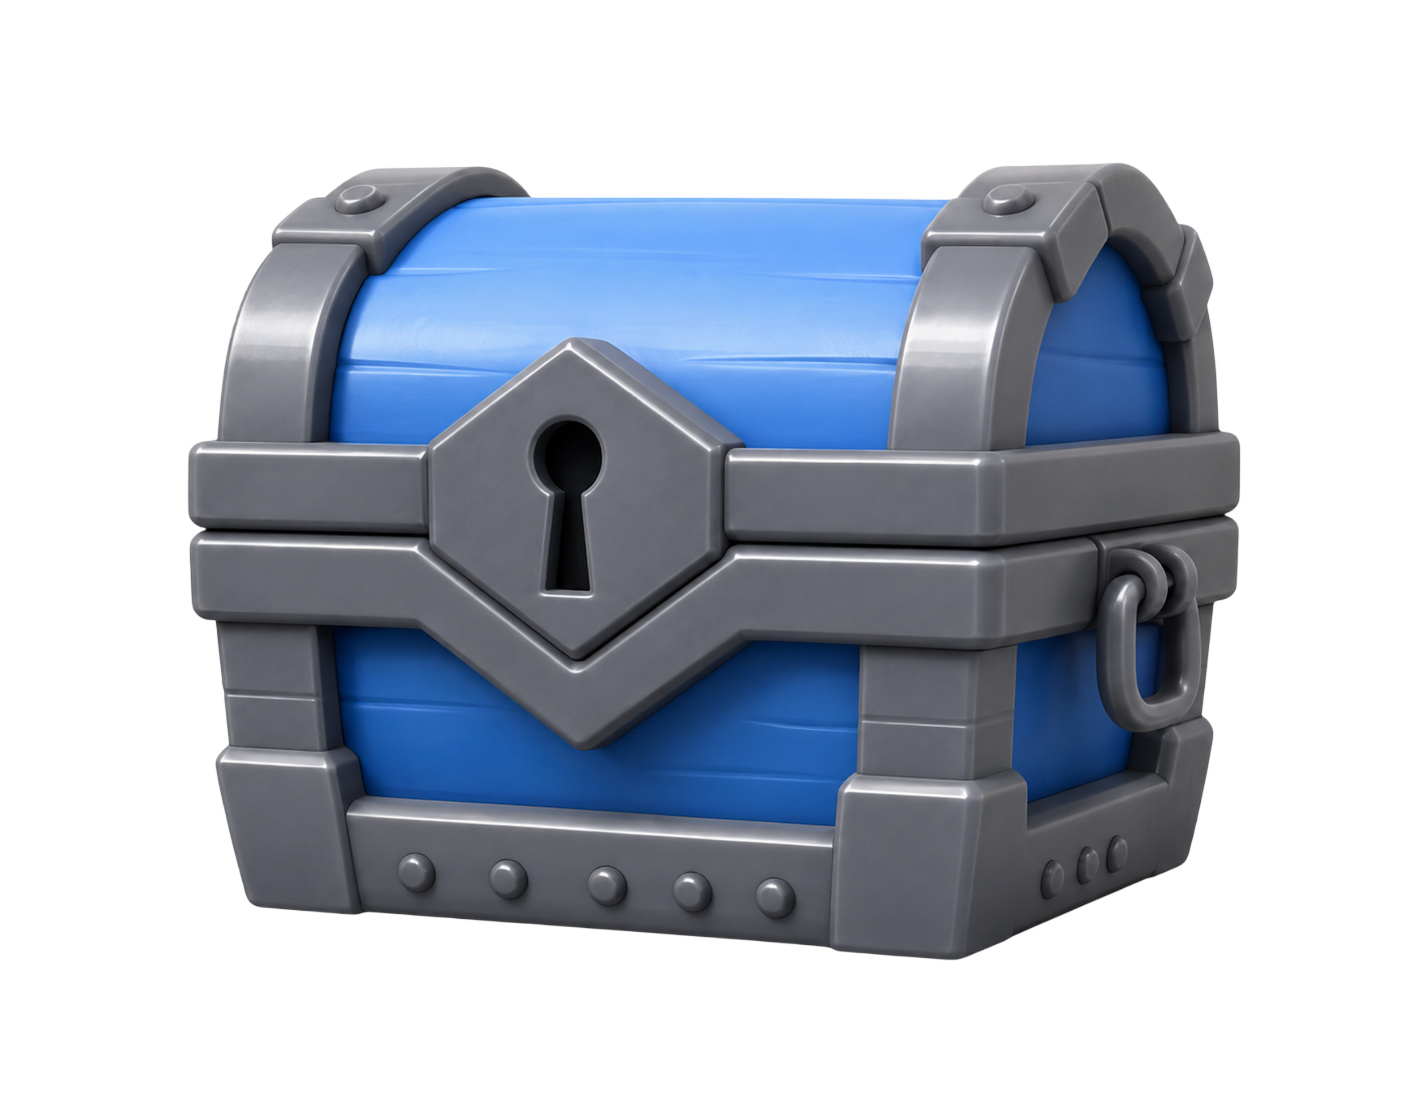
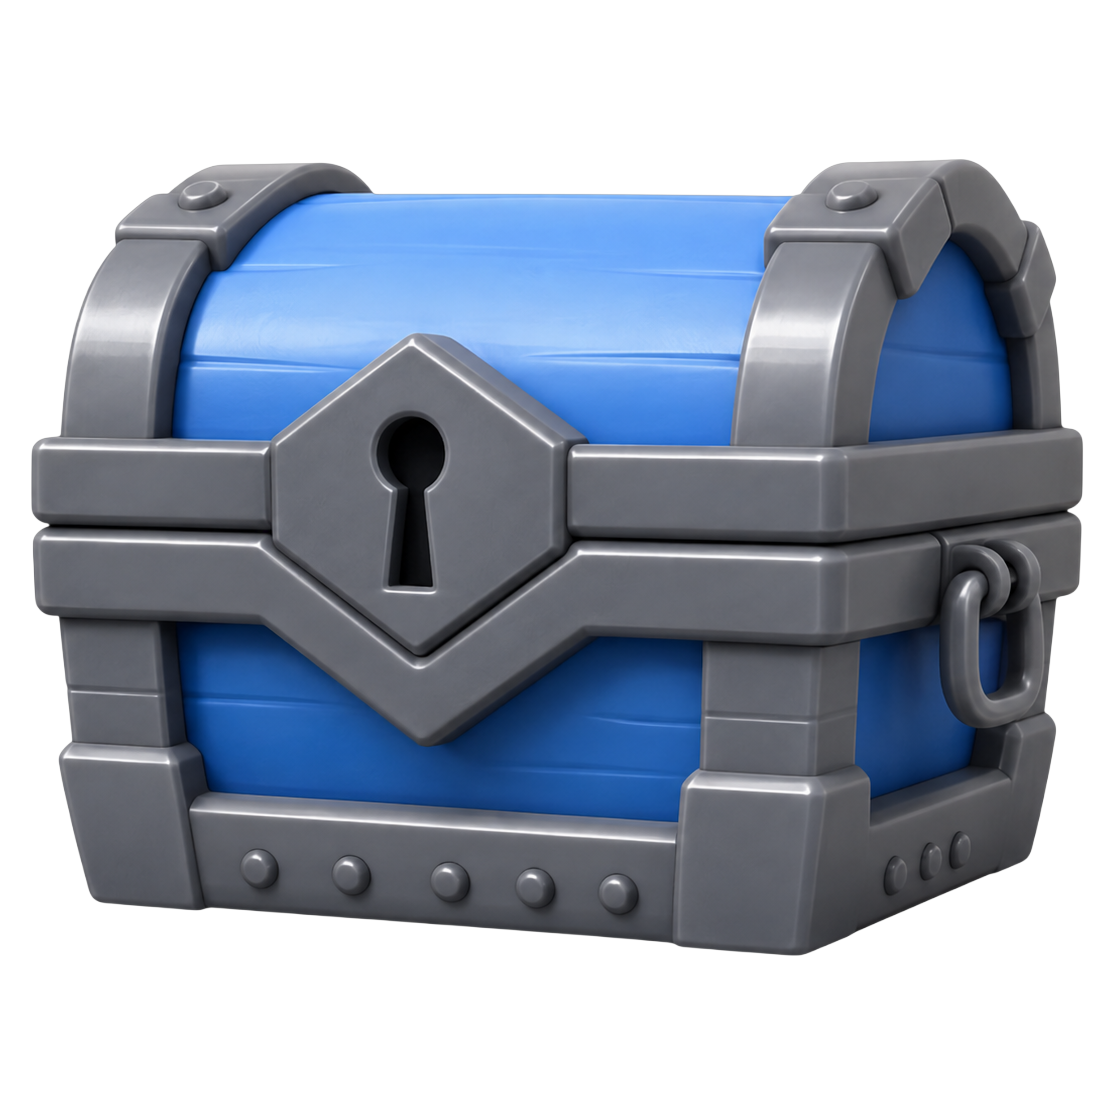
Fix battle pass chest art and add rarity sparkle effects
Chest PNGs were cropped tight to the chest and padded onto a uniform
square canvas (they previously had inconsistent transparent margins,
making object-contain render them at very different sizes/off-center).
Bumped image-to-tile ratio so chests fill their slot instead of
floating in empty space.

Replaced the flat filled-square rarity background (gold/purple/crown)
with a tinted border + soft shadow and small animated sparkle
particles scattered around the chest, colored and scaled by rarity.

diff --git a/client/src/pages/battlepass.tsx b/client/src/pages/battlepass.tsx
@@ -32,22 +32,79 @@ const CHEST_IMAGES: Record<BattlePassChestTier, string> = {
   crown: chestCrown,
 };
 
-// Only the top 3 chest tiers get the glowing-background treatment (matches the art itself --
-// wood/silver render on a plain background, gold/purple/crown render on a dark radial glow).
-const CHEST_GLOW: Partial<Record<BattlePassChestTier, { boxShadow: string; bgStyle: string }>> = {
+// Rarity treatment: a soft border/shadow tint (no more flat filled background square) plus a
+// handful of tiny animated sparkles scattered behind the chest, colored per tier. Wood gets
+// nothing (baseline chest); silver a faint hint; gold/purple/crown progressively more and
+// brighter, so the "how special is this" read comes from motion+color, not a filled shape.
+const CHEST_RARITY_STYLE: Partial<Record<BattlePassChestTier, { border: string; boxShadow: string }>> = {
+  silver: {
+    border: 'border-sky-400/30',
+    boxShadow: '0 0 16px rgba(125, 211, 252, 0.15)',
+  },
   gold: {
-    boxShadow: '0 0 30px rgba(255, 215, 0, 0.4), inset 0 0 20px rgba(255, 215, 0, 0.1)',
-    bgStyle: 'bg-gradient-to-br from-yellow-900/40 to-orange-900/40 border-yellow-600/50',
+    border: 'border-yellow-500/40',
+    boxShadow: '0 0 22px rgba(250, 204, 21, 0.25)',
   },
   purple: {
-    boxShadow: '0 0 30px rgba(147, 51, 234, 0.4), inset 0 0 20px rgba(147, 51, 234, 0.1)',
-    bgStyle: 'bg-gradient-to-br from-purple-900/40 to-pink-900/40 border-purple-600/50',
+    border: 'border-purple-500/45',
+    boxShadow: '0 0 24px rgba(192, 132, 252, 0.3)',
   },
   crown: {
-    boxShadow: '0 0 30px rgba(239, 68, 68, 0.45), inset 0 0 20px rgba(255, 215, 0, 0.15)',
-    bgStyle: 'bg-gradient-to-br from-red-900/40 to-yellow-900/40 border-red-600/50',
+    border: 'border-red-500/45',
+    boxShadow: '0 0 26px rgba(248, 113, 113, 0.35)',
   },
 };
+
+const CHEST_SPARKLE_CONFIG: Partial<Record<BattlePassChestTier, { count: number; colors: string[] }>> = {
+  silver: { count: 2, colors: ['#bae6fd'] },
+  gold: { count: 3, colors: ['#fde68a', '#fbbf24'] },
+  purple: { count: 4, colors: ['#e9d5ff', '#c084fc'] },
+  crown: { count: 6, colors: ['#fecaca', '#fde68a', '#f87171'] },
+};
+
+// Fixed spread around the tile's edges/corners so particles never overlap the chest itself.
+const SPARKLE_SLOTS = [
+  { top: '6%', left: '14%' },
+  { top: '12%', left: '80%' },
+  { top: '82%', left: '10%' },
+  { top: '86%', left: '78%' },
+  { top: '46%', left: '2%' },
+  { top: '42%', left: '92%' },
+];
+
+// `seed` (the pass tier number) staggers each particle's animation-delay so tiles of the same
+// rarity don't all twinkle in lockstep. Pure CSS animation (transform/opacity only) -- cheap
+// enough to run on the ~80 tiles mounted at once in the full 50-tier grid.
+function ChestSparkles({ chestTier, seed }: { chestTier: BattlePassChestTier; seed: number }) {
+  const config = CHEST_SPARKLE_CONFIG[chestTier];
+  if (!config) return null;
+  return (
+    <div className="absolute inset-0 pointer-events-none overflow-hidden rounded-3xl">
+      {SPARKLE_SLOTS.slice(0, config.count).map((pos, i) => {
+        const size = 7 + (i % 3) * 2;
+        return (
+          <span
+            key={i}
+            className="absolute"
+            style={{
+              top: pos.top,
+              left: pos.left,
+              width: size,
+              height: size,
+              color: config.colors[i % config.colors.length],
+              animation: `chestSparkleTwinkle ${1.6 + (i % 3) * 0.3}s ease-in-out infinite`,
+              animationDelay: `${((seed * (i + 7) * 37) % 20) / 10}s`,
+            }}
+          >
+            <svg viewBox="0 0 24 24" fill="currentColor" className="w-full h-full">
+              <path d="M12 0 L14.2 9.8 L24 12 L14.2 14.2 L12 24 L9.8 14.2 L0 12 L9.8 9.8 Z" />
+            </svg>
+          </span>
+        );
+      })}
+    </div>
+  );
+}
 
 interface PassTier {
   tier: number;
@@ -115,6 +172,11 @@ const RewardBox = React.memo(function RewardBox({
   const chestImage = CHEST_IMAGES[chestTier];
   // Milestone tiers (10/20/30/40/50) render in the bigger box, same as before.
   const isSpecialTier = isBattlePassMilestoneTier(tier.tier);
+  // Chest images are now square-cropped tight to the chest itself (see attached_assets/
+  // battlepass_chests) -- sized close to the tile so the chest reads clearly instead of
+  // floating as a small icon in a lot of empty space, but still leaves room for the border/
+  // glow and the claimed checkmark badge.
+  const chestImgSize = isSpecialTier ? 'w-32 h-32' : 'w-28 h-28';
 
   // Check if this specific tier/type is claimed
   // Handle loading state - don't show as claimed/unclaimed while loading
@@ -150,12 +212,12 @@ const RewardBox = React.memo(function RewardBox({
   if (isClaimed) {
     bgStyle = 'bg-black border-green-500';
   } else {
-    // Gold/purple/crown chests always glow (matches their art's dark radial background);
-    // wood/silver stay plain, matching theirs.
-    const glow = CHEST_GLOW[chestTier];
-    if (glow) {
-      glowStyle = { boxShadow: glow.boxShadow };
-      bgStyle = glow.bgStyle;
+    // Silver/gold/purple/crown get a tinted border + soft shadow (no flat fill) -- the
+    // sparkles rendered below do the rest of the "how rare is this" signalling.
+    const rarity = CHEST_RARITY_STYLE[chestTier];
+    if (rarity) {
+      glowStyle = { boxShadow: rarity.boxShadow };
+      bgStyle = `bg-gray-900/60 ${rarity.border}`;
     } else {
       bgStyle = isPremium ? 'bg-purple-900/20 border-purple-600/30' : 'border-gray-700';
     }
@@ -183,11 +245,17 @@ const RewardBox = React.memo(function RewardBox({
       }}
       whileTap={canClaim ? { scale: 0.95 } : {}}
     >
+      {!isClaimed && (
+        <div className={canClaim ? 'opacity-100' : 'opacity-40'}>
+          <ChestSparkles chestTier={chestTier} seed={tier.tier} />
+        </div>
+      )}
+
       {/* Reward Content */}
       <div className="text-center">
         {isClaimed ? (
           <div className="relative flex flex-col items-center opacity-50">
-            <img src={chestImage} alt={`${chestTier} chest, claimed`} className="w-24 h-24 object-contain filter drop-shadow-lg mb-1" />
+            <img src={chestImage} alt={`${chestTier} chest, claimed`} className={`${chestImgSize} object-contain filter drop-shadow-lg mb-1`} />
             <div className="absolute -top-1 -right-1 w-6 h-6 rounded-full bg-green-500 flex items-center justify-center border-2 border-black">
               <Check className="w-3.5 h-3.5 text-white" strokeWidth={3} />
             </div>
@@ -199,11 +267,11 @@ const RewardBox = React.memo(function RewardBox({
           </div>
         ) : canClaim ? (
           <div className="flex flex-col items-center animate-pulse">
-            <img src={chestImage} alt={`${chestTier} chest`} className="w-24 h-24 object-contain filter drop-shadow-lg" />
+            <img src={chestImage} alt={`${chestTier} chest`} className={`${chestImgSize} object-contain filter drop-shadow-lg`} />
           </div>
         ) : (
           <div className="flex flex-col items-center opacity-70">
-            <img src={chestImage} alt={`${chestTier} chest, locked`} className="w-24 h-24 object-contain filter drop-shadow-lg" />
+            <img src={chestImage} alt={`${chestTier} chest, locked`} className={`${chestImgSize} object-contain filter drop-shadow-lg`} />
           </div>
         )}
       </div>

diff --git a/client/src/index.css b/client/src/index.css
@@ -268,3 +268,15 @@
     opacity: 0.6;
   }
 }
+
+/* Battle Pass chest rarity sparkles (client/src/pages/battlepass.tsx) */
+@keyframes chestSparkleTwinkle {
+  0%, 100% {
+    opacity: 0;
+    transform: scale(0.3) rotate(0deg);
+  }
+  50% {
+    opacity: 1;
+    transform: scale(1) rotate(20deg);
+  }
+}
